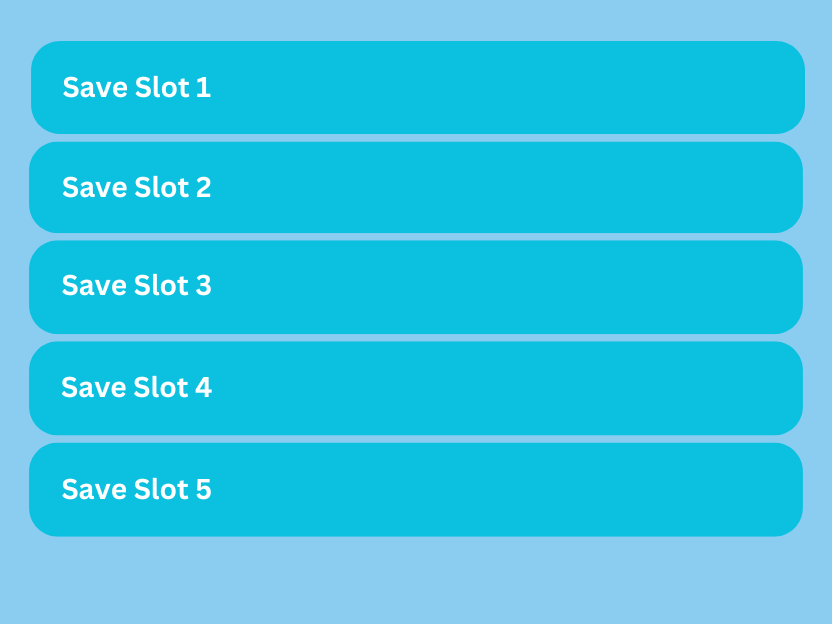
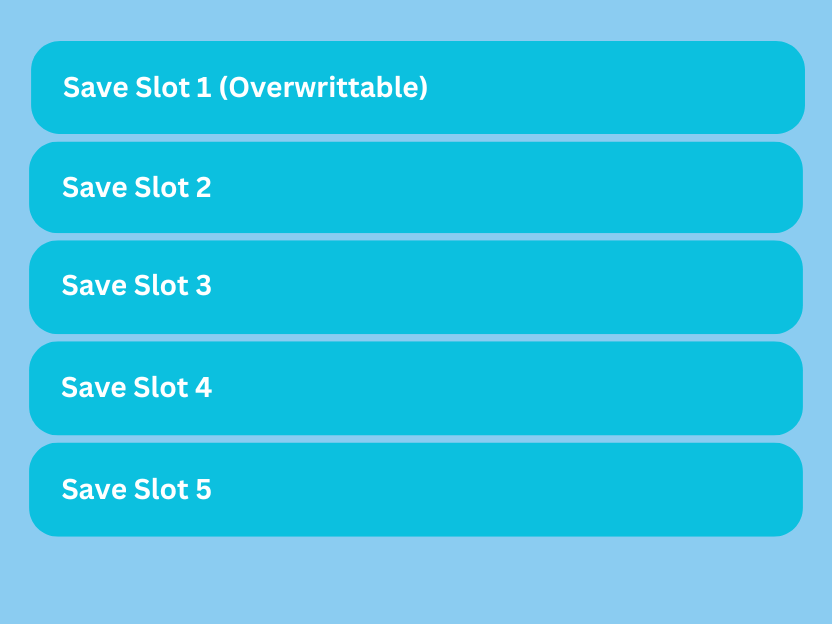
updated files
- added overwrittable save slot

Changed region(s): [[0.0625, 0.1218, 0.5312, 0.1827]]

diff --git a/main.py b/main.py
@@ -81,30 +81,25 @@ class Platformer(arcade.Window):
         self.game_over_buttons.append(Button(266, 280, 300, 50, "Menu",
                                                game_over_default_color, game_over_hover_color, border_color, game_over_text_color, font_size=20))
 
-        # Create load screen buttons.
         self.load_buttons = []
         self.delete_buttons = []
         for i in range(5):
             center_y = 536.5 - i * 100
-            load_center_x = 550 + 37.5   # 587.5
-            delete_center_x = 650 + 37.5 # 687.5
+            load_center_x = 550 + 37.5  
+            delete_center_x = 650 + 37.5 
             load_left = load_center_x - 37.5
             delete_left = delete_center_x - 37.5
             self.load_buttons.append(Button(load_left, center_y + 37.5, 75, 75, f"LOAD",
                                              arcade.color.GREEN, arcade.color.DARK_GREEN, arcade.color.WHITE, arcade.color.WHITE, font_size=10))
             self.delete_buttons.append(Button(delete_left, center_y + 37.5, 75, 75, f"DELETE",
                                                arcade.color.RED, arcade.color.DARK_RED, arcade.color.WHITE, arcade.color.WHITE, font_size=10))
-        # Create save mode buttons.
         self.save_buttons = []
-        # We'll place these buttons at the same positions as the delete buttons.
         for i in range(5):
             center_y = 536.5 - i * 100
-            save_center_x = 650 + 37.5  # same as delete buttons: 687.5
+            save_center_x = 650 + 37.5 
             save_left = save_center_x - 37.5
-            # Label is "SAVE", font size 10.
             self.save_buttons.append(Button(save_left, center_y + 37.5, 75, 75, "SAVE",
                                               arcade.color.GREEN, arcade.color.DARK_GREEN, arcade.color.WHITE, arcade.color.WHITE, font_size=10))
-        # End of button creation.
 
         self.last_x = self.player.center_x
         self.last_y = self.player.center_y
@@ -189,7 +184,7 @@ class Platformer(arcade.Window):
         self.save_buttons = []
         for i in range(5):
             filename = os.path.join("saves", f"core.txt{i+1}")
-            if not os.path.exists(filename):
+            if not os.path.exists(filename) or i == 0:
                 center_y = 536.5 - i * 100
                 save_center_x = 650 + 37.5
                 save_left = save_center_x - 37.5
